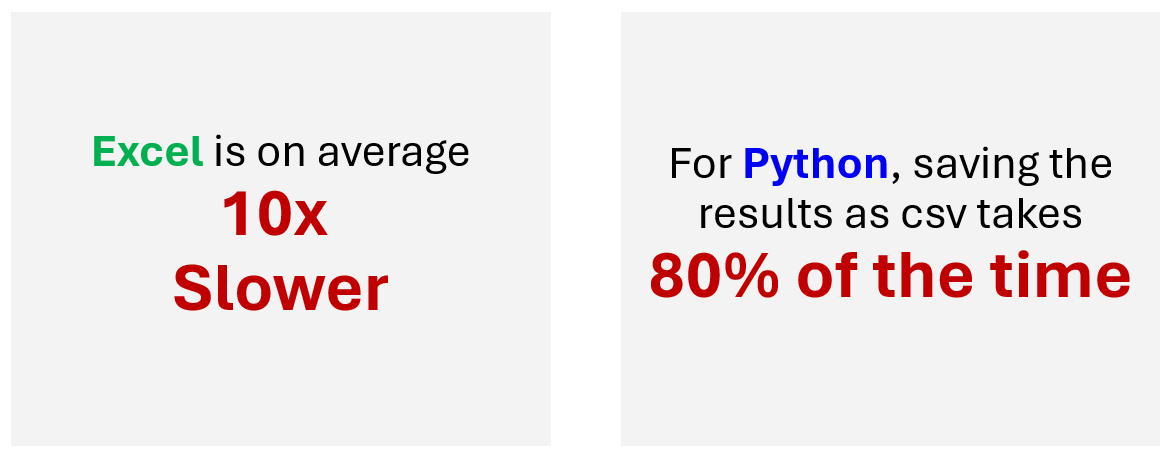
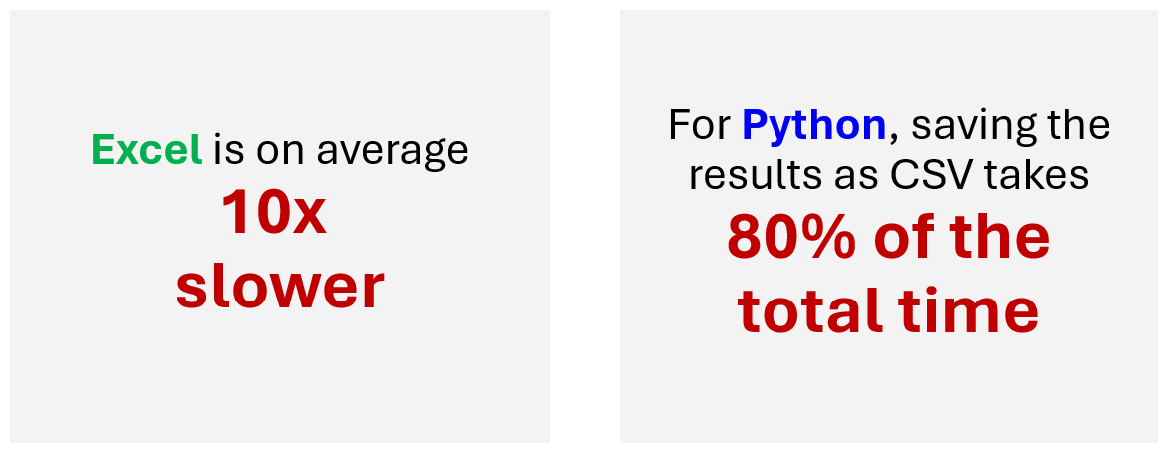
final draft

diff --git a/excelvspython.html b/excelvspython.html
@@ -32,14 +32,15 @@
 					<div id="main">
 						<div class="inner">
 							<h1>Excel vs Python: Data Handling Experiment</h1>
-							<p>In the last chapter of my career before starting my master's degree at Purdue University—a six-year period—Excel was my go-to tool. I used it for everything from data analysis to note-taking. However, as I transitioned into data science, I discovered how fast and efficient Python is for handling data. This discovery inspired me to design an experiment comparing Excel's Power Query, a tool for data manipulation, with Python's Pandas library. I hope this comparison will provide insights for those still undecided about incorporating Python into their data handling routines.</p>
-							<p>The experiment files can be found in my GitHub repository: <a href="https://github.com/morilucas/excelvspython">Excel vs. Python</a>.</p>
+								<p>In the final phase of my career as a financial planner and corporate finance practitioner, I heavily relied on Excel. It served as my go-to for not only data manipulation but also financial modeling, dashboard creation, note-taking, and project planning. However, transitioning into data science introduced me to Python's superior speed and efficiency in managing data—a potential I had always heard about but never integrated into my toolkit.</p>
+								<p>In this analysis, I aim to conduct a head-to-head comparison between Excel’s Power Query, a robust tool for data manipulation, and Python’s Pandas library. This comparison will focus on a task that was commonly encountered in my workflow: loading datasets, merging and transforming them and saving the results.</p>
+								<p>My goal is to provide valuable insights for those considering the integration of Python into their data handling processes.</p>
+								<p>You can find the files for this analysis in the <a href="https://github.com/morilucas/excelvspython">Github Repository</a>.</p>
+								<p><strong>Tools Used:</strong> Python, Pandas, Excel, Power Query, Seaborn</p>
 						
-							<h2>Experiment Overview:</h2>
+							<h2>Approach:</h2>
 						
-								<p style="margin-right: 20px;">
-									The aim of the experiment is to compare Excel and Python's performance in a common task in the day-to-day routine of any analyst: loading datasets, merging and saving the results (Figure 1 - Step 2 Merge and Save). For that we will follow these steps:
-								</p>
+								<p>The general plan involve two broad steps: 1. Generate Datasets -a Python script will generate two datasets, each with a flexible number of rows, allowing us to analyze how both methods perform as the number of rows increases; 2. Merge and save - an excel spreadsheet and a python script that will perform the same task of loading the data, merging the two datasets, and saving the results.</p>
 
 								<figure style="text-align: center; margin: 2em 0 2em 0;">
 									<img src="images/excelvspython/experiment.png" alt="Experiment Diagram" style="width: 30%; height: auto;"/>
@@ -70,55 +71,54 @@
 										</ol>
 									</ol>
 
-
-							<h2>Takeaways:</h2>
-							<p>Starting with the lessons learned with this exercise:</p>
-								<ul>
-									<li>Excel's Power Query is about 10 times slower than Python for the same task.</li>
-									<li>In Python, saving data to a .csv file can take up to 80% of the total time, so being mindful of when and how often you save data can greatly affect performance.</li>
-									<li>Contrary to intuition, loading and merging data takes less time than opening files and saving results for both methods.</li>
-								</ul>
-								<figure style="flex: 1; margin-right: 10px; text-align: center;">
-									<img src="images/excelvspython/takeaways.png" alt="Key Takeaways" style="width: 50%; height: auto;"/>
-								</figure>
-
-							<h2>Results:</h2>
+							<h2>Analysis:</h2>
 							
 							<h4>Overall Comparison</h4>
-							<p>Our first step of the analysis is comparing the performance of both methods with the increase of number of rows. And after analyzing how many times excel is slower when compared to python for each number of rows.</p>
-							<div style="display: flex; justify-content: center; align-items: center; margin: 2em 0 2em 0;">
-								<figure style="flex: 1; margin-right: 10px; text-align: center;">
-									<img src="images/excelvspython/avg_lineplot.png" alt="Excel vs. Python Line Plot Comparison" style="width: 100%; height: auto;"/>
-									<figcaption>Figure 1: Line Plot Comparison between Excel and Python. Blue line represents Excel data, and red line represents Python data.</figcaption>
-								</figure>
-								<figure style="flex: 1; margin-left: 10px; text-align: center;">
-									<img src="images/excelvspython/howmanytimesslower_excel.png" alt="How many times slower?" style="width: 100%; height: auto;"/>
-									<figcaption>Figure 2: Performance Ratio of Excel to Python by Row Count. This graph illustrates how Excel's processing time compares to Python's across different data sizes.</figcaption>
-								</figure>
-							</div>
-							<ul>
-								<li>Analyzing Figure 1, we can observe that both Excel and Python exhibit a linear behavior as the number of rows increases. However, Excel's curve is noticeably steeper, indicating a faster growth in response time.</li>
-								<li>Moving on to Figure 2, excluding the results for tasks with 1,000 rows, we can conclude that Excel's performance is consistently at least ten times slower than Python's in executing the given task."</li>							</ul>
-							</ul>
+								<p>Our first step is to compare the performance of both methods as the number of rows increases and to assess how much slower Excel is compared to Python.</p>
+								<div style="display: flex; justify-content: center; align-items: center; margin: 2em 0 2em 0;">
+									<figure style="flex: 1; margin-right: 10px; text-align: center;">
+										<img src="images/excelvspython/avg_lineplot.png" alt="Excel vs. Python Line Plot Comparison" style="width: 100%; height: auto;"/>
+										<figcaption>Figure 1: Line Plot Comparison between Excel and Python. Blue line represents Excel data, and red line represents Python data.</figcaption>
+									</figure>
+									<figure style="flex: 1; margin-left: 10px; text-align: center;">
+										<img src="images/excelvspython/howmanytimesslower_excel.png" alt="How many times slower?" style="width: 100%; height: auto;"/>
+										<figcaption>Figure 2: Performance Ratio of Excel to Python by Row Count. This graph illustrates how Excel's processing time compares to Python's across different data sizes.</figcaption>
+									</figure>
+								</div>
+								<ul>
+									<li>Analyzing Figure 1, we can observe that both Excel and Python exhibit a linear behavior as the number of rows increases. However, Excel's curve is noticeably steeper, indicating tha Excel's processing time increases more steeply compared to Python as the dataset size grows.</li>
+									<li>Moving on to Figure 2, excluding the results for tasks with 1,000 rows, we can conclude that Excel's performance is on average ten times slower than Python's in executing the given task.</li>
+								</ul>
 							
 							<h4>Breakdown</h4>
-							<p>To deepen our analysis, we further dissect the total time required to complete the task by examining the duration of each step and each method to gain more insights.</p>
-							<div style="display: flex; justify-content: center; align-items: center; margin: 2em 0 2em 0;">
-								<figure style="flex: 1; margin-right: 10px; text-align: center;">
-									<img src="images/excelvspython/breakdown_excel.png" alt="Excel vs. Python Line Plot Comparison" style="width: 100%; height: auto;"/>
-									<figcaption>Figure 3: Proportional Time Spent on Each Operation in Excel by Row Volume.</figcaption>
-								</figure>
-								<figure style="flex: 1; margin-left: 10px; text-align: center;">
-									<img src="images/excelvspython/breakdown_python.png" alt="How many times slower?" style="width: 100%; height: auto;"/>
-									<figcaption>Figure 4: Proportional Time Spent on Each Operation in Python by Row Volume.</figcaption>
-								</figure>
-							</div>
+								<p>We go one level deeper and analyze how much of the total time is spent on each step percentage-wise.</p>
+								<div style="display: flex; justify-content: center; align-items: center; margin: 2em 0 2em 0;">
+									<figure style="flex: 1; margin-right: 10px; text-align: center;">
+										<img src="images/excelvspython/breakdown_excel.png" alt="Excel vs. Python Line Plot Comparison" style="width: 100%; height: auto;"/>
+										<figcaption>Figure 3: Proportional Time Spent on Each Operation in Excel by Row Volume.</figcaption>
+									</figure>
+									<figure style="flex: 1; margin-left: 10px; text-align: center;">
+										<img src="images/excelvspython/breakdown_python.png" alt="How many times slower?" style="width: 100%; height: auto;"/>
+										<figcaption>Figure 4: Proportional Time Spent on Each Operation in Python by Row Volume.</figcaption>
+									</figure>
+								</div>
 							
-							<ul>
-								<li>Figure 3 indicates that the time taken to open and save an Excel file may account for more than 40% of the total task duration, depending on the number of rows in the dataframes.</li>
-								<li>Figure 4 demonstrates that, on average, saving the results as a .csv file consumes more than 80% of the total processing time.</li>							
-							</ul>
+								<ul>
+									<li>Figure 3 indicates that the time taken to open and save an Excel file may account for more than 40% of the total task duration, depending on the number of rows in the dataframes.</li>
+									<li>And that for Python (Figure 4), on average, saving the results as a .csv file consumes more than 80% of the total processing time.</li>							
+								</ul>
 
+							<h2>Takeaways:</h2>
+
+							<p>Starting with the lessons learned with this exercise:</p>
+							<ul>
+								<li>Excel's Power Query is on average 10 times slower than Python for the same task.</li>
+								<li>In Python, saving data to a .csv file can take up to 80% of the total time. So being mindful of when and how often you save data can greatly affect the performance of a data manipulation task.</li>
+								<li>Contrary to my initial intuition, loading and merging data takes less time than opening files and saving results for both methods.</li>
+							</ul>
+							<figure style="flex: 1; margin-right: 10px; text-align: center;">
+								<img src="images/excelvspython/takeaways.png" alt="Key Takeaways" style="width: 50%; height: auto;"/>
+							</figure>
 
 						</div>
 					</div>

diff --git a/assets/css/main.css b/assets/css/main.css
@@ -33,19 +33,8 @@ body {
 	line-height: 1;
 }
 
-p {
-    font-size: 20px; /* Paragraphs */
-}
-
 ol, ul {
 	list-style: none;
-	font-size: 24px;
-	margin: 0; /* Removes default margin */
-	padding: 0; /* Removes default padding */
-}
-
-li {
-	font-size: 24px;
 }
 
 blockquote, q {
@@ -129,7 +118,7 @@ input, select, textarea {
 	body, input, select, textarea {
 		color: #585858;
 		font-family: "Source Sans Pro", Helvetica, sans-serif;
-		font-size: 16pt;
+		font-size: 21pt;
 		font-weight: 300;
 		line-height: 1.75;
 	}
@@ -175,7 +164,6 @@ input, select, textarea {
 
 	p {
 		margin: 0 0 1em 0;
-		font-size: 1.2em;
 	}
 
 	h1 {
@@ -3339,10 +3327,3 @@ input, select, textarea {
 			}
 
 		}
-
-/* Other */
-
-figcaption {
-	font-size: 22px;
-	color: inherit;
-}
